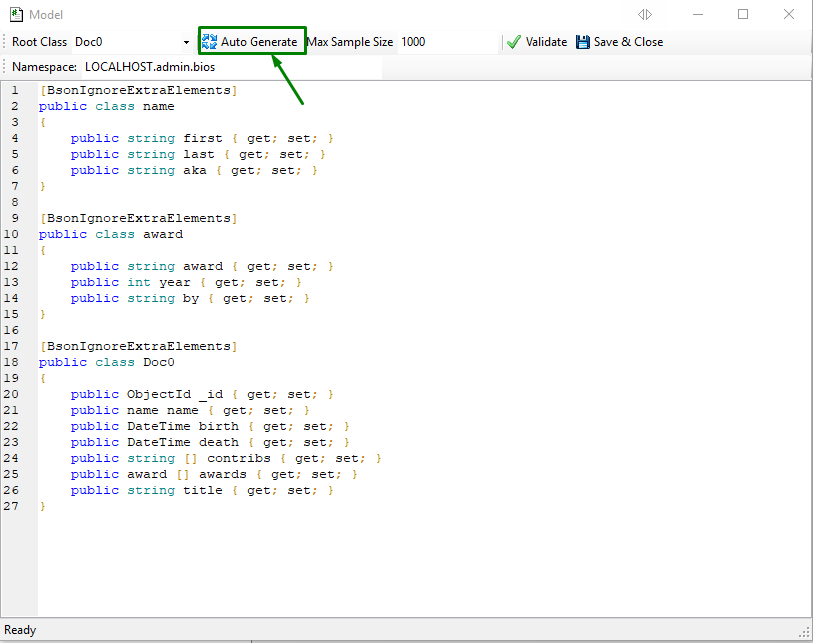
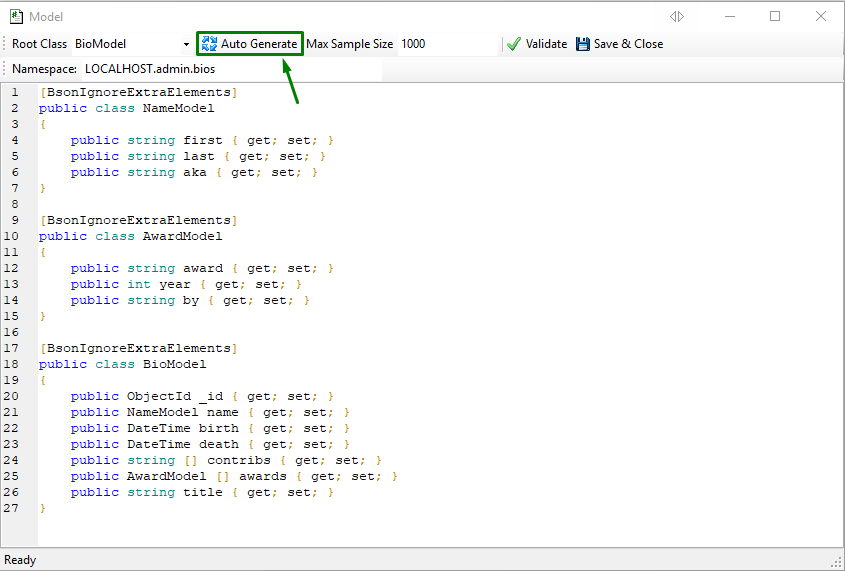
Improve class naming when auto generating models

Changed region(s): [[0.0, 0.0, 1.0, 0.8932], [0.0, 0.9527, 1.0, 1.0], [0.5843, 0.0595, 0.8303, 0.0893]]

diff --git a/src/Model/BsonDocumentConverter.cs b/src/Model/BsonDocumentConverter.cs
@@ -6,22 +6,28 @@ using MongoDB.Bson;
 using Newtonsoft.Json;
 using Newtonsoft.Json.Converters;
 using Newtonsoft.Json.Linq;
+using System.Data.Entity.Design.PluralizationServices;
+using System.Globalization;
 
 namespace MongoSharp.Model
 {
     public class BsonDocumentConverter
     {
-        public List<string> ToCSharpClassDeclarations(BsonDocument bsonDocument)
+
+        private static readonly PluralizationService _pluralizationService =
+            PluralizationService.CreateService(CultureInfo.CurrentCulture);
+
+        public List<string> ToCSharpClassDeclarations(BsonDocument bsonDocument, string collectionName)
         {
             var docs = new List<string> {""};
-            ToCSharpClassDeclarations(bsonDocument, "Doc0", ref docs);
+            ToCSharpClassDeclarations(bsonDocument, collectionName, ref docs);
 
             return docs;
         }
 
         private void ToCSharpClassDeclarations(BsonDocument bsonDocument, string docName, ref List<string> docs)
         {
-            string classDef = $"[BsonIgnoreExtraElements]\npublic class {docName}\n{{\n";
+            string classDef = $"[BsonIgnoreExtraElements]\npublic class {GetDocName(docName)}Model\n{{\n";
 
             foreach (BsonElement element in bsonDocument.Elements)
             {
@@ -30,7 +36,7 @@ namespace MongoSharp.Model
                     var innerDoc = element.Value.AsBsonDocument;                    
                     if (innerDoc != null && innerDoc.Elements.Any())
                     {
-                        classDef += $"\tpublic {GetDocName(element.Name)} {element.Name} {{ get; set; }}\n";
+                        classDef += $"\tpublic {GetDocName(element.Name)}Model {GetPropertyName(element.Name)} {{ get; set; }}\n";
                         ToCSharpClassDeclarations(element.Value.AsBsonDocument, GetDocName(element.Name), ref docs);
                     }
                 }
@@ -42,24 +48,24 @@ namespace MongoSharp.Model
                         var first = ar.First();
                         if(!first.IsBsonDocument)
                         {
-                            classDef += $"\tpublic {ToCSharpType(first)} [] {element.Name} {{ get; set; }}\n";
+                            classDef += $"\tpublic {ToCSharpType(first)} [] {GetPropertyName(element.Name)} {{ get; set; }}\n";
                         }
                         else
                         {
                             var document = first.AsBsonDocument;
 
-                            classDef += $"\tpublic {GetDocName(element.Name)} [] {element.Name} {{ get; set; }}\n";
+                            classDef += $"\tpublic {GetDocName(element.Name)}Model [] {GetPropertyName(element.Name)} {{ get; set; }}\n";
                             ToCSharpClassDeclarations(document, GetDocName(element.Name), ref docs);
                         }
                     }
                     else
                     {   // No elements, can't determine type.
-                        classDef += $"\tpublic BsonValue [] {element.Name} {{ get; set; }}\n";
+                        classDef += $"\tpublic BsonValue [] {GetPropertyName(element.Name)} {{ get; set; }}\n";
                     }
                 }
                 else if (element.Name != "ExtensionData")
                 {
-                    classDef += $"\tpublic {ToCSharpType(element.Value)} {element.Name} {{ get; set; }}\n";
+                    classDef += $"\tpublic {ToCSharpType(element.Value)} {GetPropertyName(element.Name)} {{ get; set; }}\n";
                 }
             }
 
@@ -68,14 +74,23 @@ namespace MongoSharp.Model
             docs.Add(classDef);
         }
 
-        private string GetDocName(string name)
+        public string GetDocName(string name)
         {
-            if (name.EndsWith("ies"))
-                return name.Substring(0, name.Length - 3) + "y";
+            if (string.IsNullOrWhiteSpace(name))
+            {
+                return name;
+            }
 
-            if(name.EndsWith("s"))
-                return name.Substring(0, name.Length - 1);
+            name = _pluralizationService.Singularize(name);
 
+            TextInfo txtInfo = new CultureInfo("en-us", false).TextInfo;
+            name = txtInfo.ToTitleCase(name).Replace('_', ' ').Replace(" ", String.Empty);
+
+            return name;
+        }
+
+        private string GetPropertyName(string name)
+        {
             return name;
         }
 

diff --git a/src/MongoLINQ/Dialogs/FormSchema.cs b/src/MongoLINQ/Dialogs/FormSchema.cs
@@ -68,33 +68,18 @@ namespace MongoSharp
                 if (!types.Any())
                     throw new Exception("No model classes are defined.");
 
-                toolStripComboBoxRootClass.Items.AddRange(
-                    (from t in types
-                     select t.Name).Cast<object>().ToArray());
-
-                if (!string.IsNullOrWhiteSpace(selectedRootClass))
-                {
-                    string found =
-                        toolStripComboBoxRootClass.Items.Cast<string>().ToList().Find(x => x == selectedRootClass);
-                    if (found != null)
-                    {
-                        toolStripComboBoxRootClass.SelectedItem = found;
-                        toolStripComboBoxRootClass.Text = found;
-                    }
-                }
-
-                if (toolStripComboBoxRootClass.Items.Count == 1)
-                {
-                    toolStripComboBoxRootClass.SelectedItem = toolStripComboBoxRootClass.Items[0];
-                }                
+                LoadRootClassDropDown(types.Select(x => x.Name).ToList(), selectedRootClass);
 
                 if(toolStripComboBoxRootClass.SelectedItem == null)
                     throw new Exception("Please select a root model class.");
             }
             catch (Exception ex)
             {
-                if(displayError)
+                if (displayError)
+                {
                     MessageBox.Show(ex.Message, "Invalid Model", MessageBoxButtons.OK, MessageBoxIcon.Error);
+                }
+
                 return false;
             }
 
@@ -118,16 +103,43 @@ namespace MongoSharp
                 var doc =
                     MongoCollectionSchemaStore.GetSchemaDocument(CollectionInfo.Database, CollectionInfo.Name, sampleSize)
                                               .SchemaDocument;
-                List<string> classes = new BsonDocumentConverter().ToCSharpClassDeclarations(doc);
+                var classes = new BsonDocumentConverter().ToCSharpClassDeclarations(doc, CollectionInfo.Name);
                 scintillaCode.Text = string.Join("\r\n", classes.ToArray()).TrimEnd('\r','\n').TrimStart('\r','\n');
-                toolStripComboBoxRootClass.Items.Add("Doc0");
-                toolStripComboBoxRootClass.SelectedItem = "Doc0";
+
+                var types = new MongoDynamicCodeRunner().CompileModelCode(scintillaCode.Text, toolStripTextBoxNamespace.Text ?? "DEFAULT");
+
+                LoadRootClassDropDown(types.Select(x => x.Name).ToList(), new BsonDocumentConverter().GetDocName(CollectionInfo.Name) + "Model");
             }
             finally
             {
                 Cursor.Current = Cursors.Default;
             }
             
+        }
+
+        private void LoadRootClassDropDown(List<string> classes, string selectedClass)
+        {
+            if (classes == null || !classes.Any())
+            {
+                return;
+            }
+
+            toolStripComboBoxRootClass.Items.AddRange((from cls in classes select cls).Cast<object>().ToArray());
+
+            if (!string.IsNullOrWhiteSpace(selectedClass))
+            {
+                string found = toolStripComboBoxRootClass.Items.Cast<string>().ToList().Find(x => x == selectedClass);
+                if (found != null)
+                {
+                    toolStripComboBoxRootClass.SelectedItem = found;
+                    toolStripComboBoxRootClass.Text = found;
+                }
+            }
+
+            if (toolStripComboBoxRootClass.Items.Count == 1)
+            {
+                toolStripComboBoxRootClass.SelectedItem = toolStripComboBoxRootClass.Items[0];
+            }
         }
 
         private void scintillaCode_Click(object sender, EventArgs e)

diff --git a/src/Model/MongoCodeGenerator.cs b/src/Model/MongoCodeGenerator.cs
@@ -63,7 +63,7 @@ namespace MongoSharp.Model
                     $"Collection '{collectionName}' is empty. Unable to determine schema from first document");
 
             var schemaInfo = MongoCollectionSchemaStore.GetSchemaDocument(databaseInfo, collectionName);
-            var classes = new BsonDocumentConverter().ToCSharpClassDeclarations(schemaInfo.SchemaDocument);
+            var classes = new BsonDocumentConverter().ToCSharpClassDeclarations(schemaInfo.SchemaDocument, collectionName);
 
             var sb = new StringBuilder();
             foreach (var classSyntax in classes)
@@ -93,7 +93,7 @@ namespace MongoSharp.Model
                     $"Collection '{collectionName}' is empty. Unable to determine schema from first document");
 
             var schemaInfo = MongoCollectionSchemaStore.GetSchemaDocument(databaseInfo, collectionName);
-            var classes = new BsonDocumentConverter().ToCSharpClassDeclarations(schemaInfo.SchemaDocument);
+            var classes = new BsonDocumentConverter().ToCSharpClassDeclarations(schemaInfo.SchemaDocument, collectionName);
 
             var sb = new StringBuilder();
             foreach (var classSyntax in classes)
